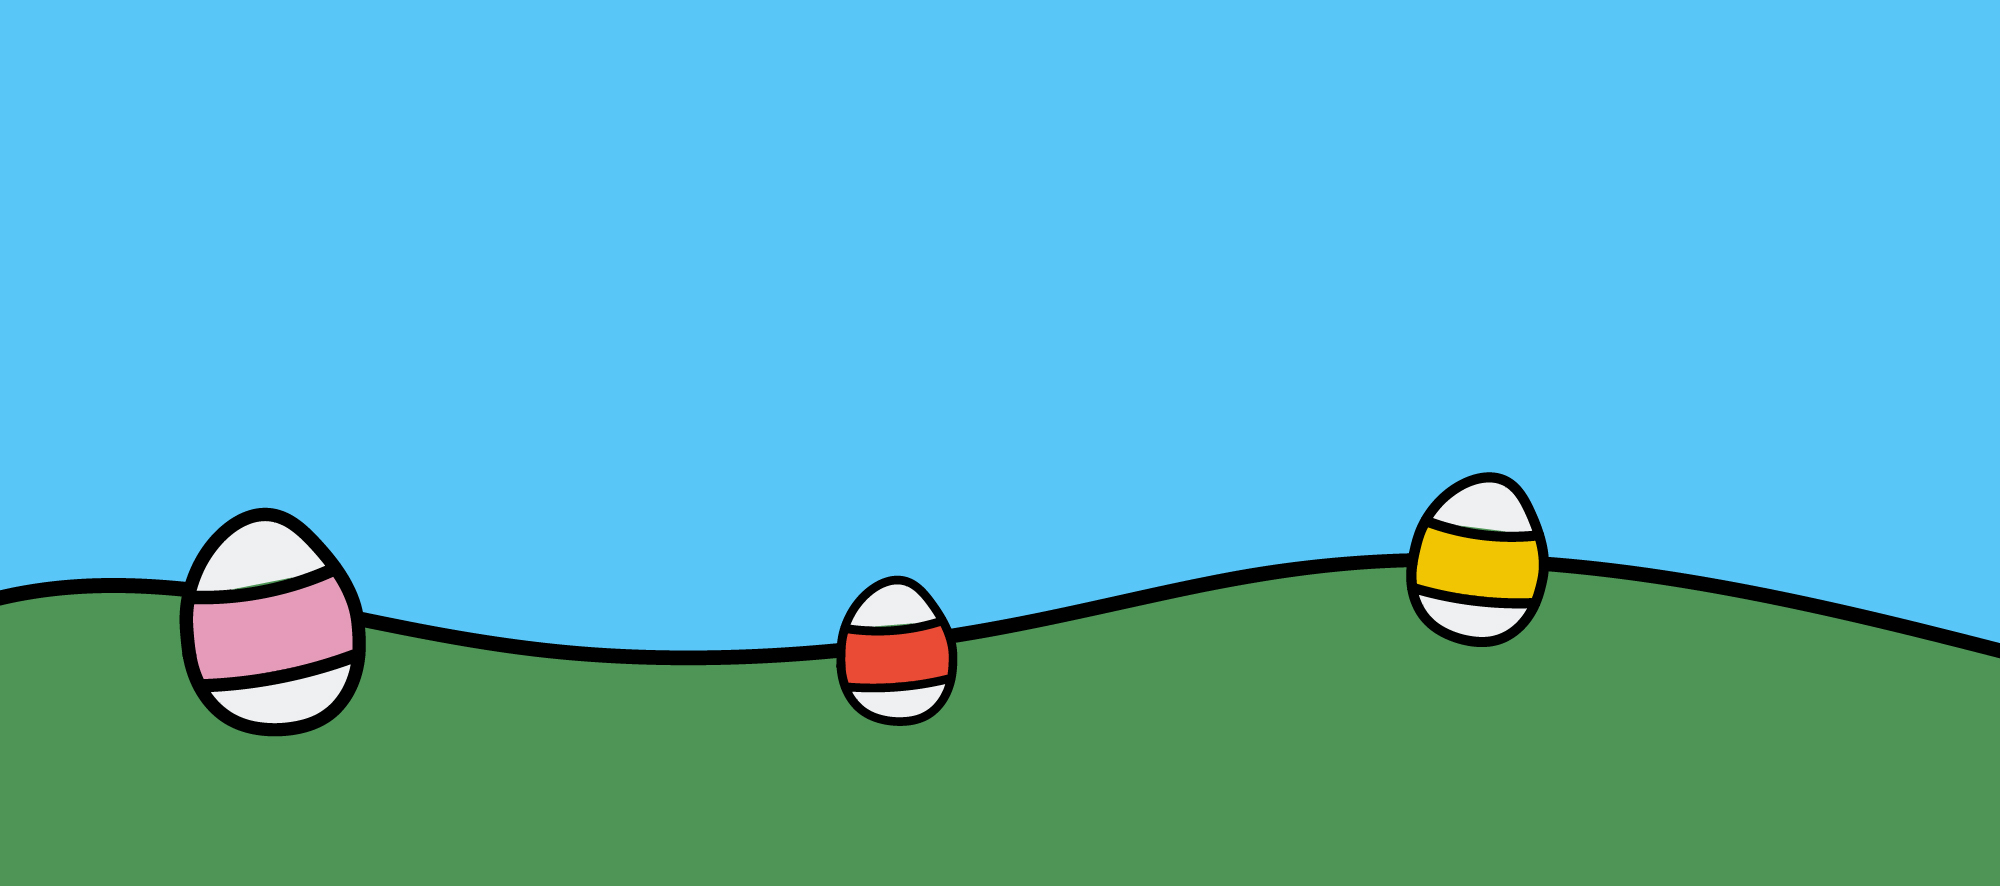
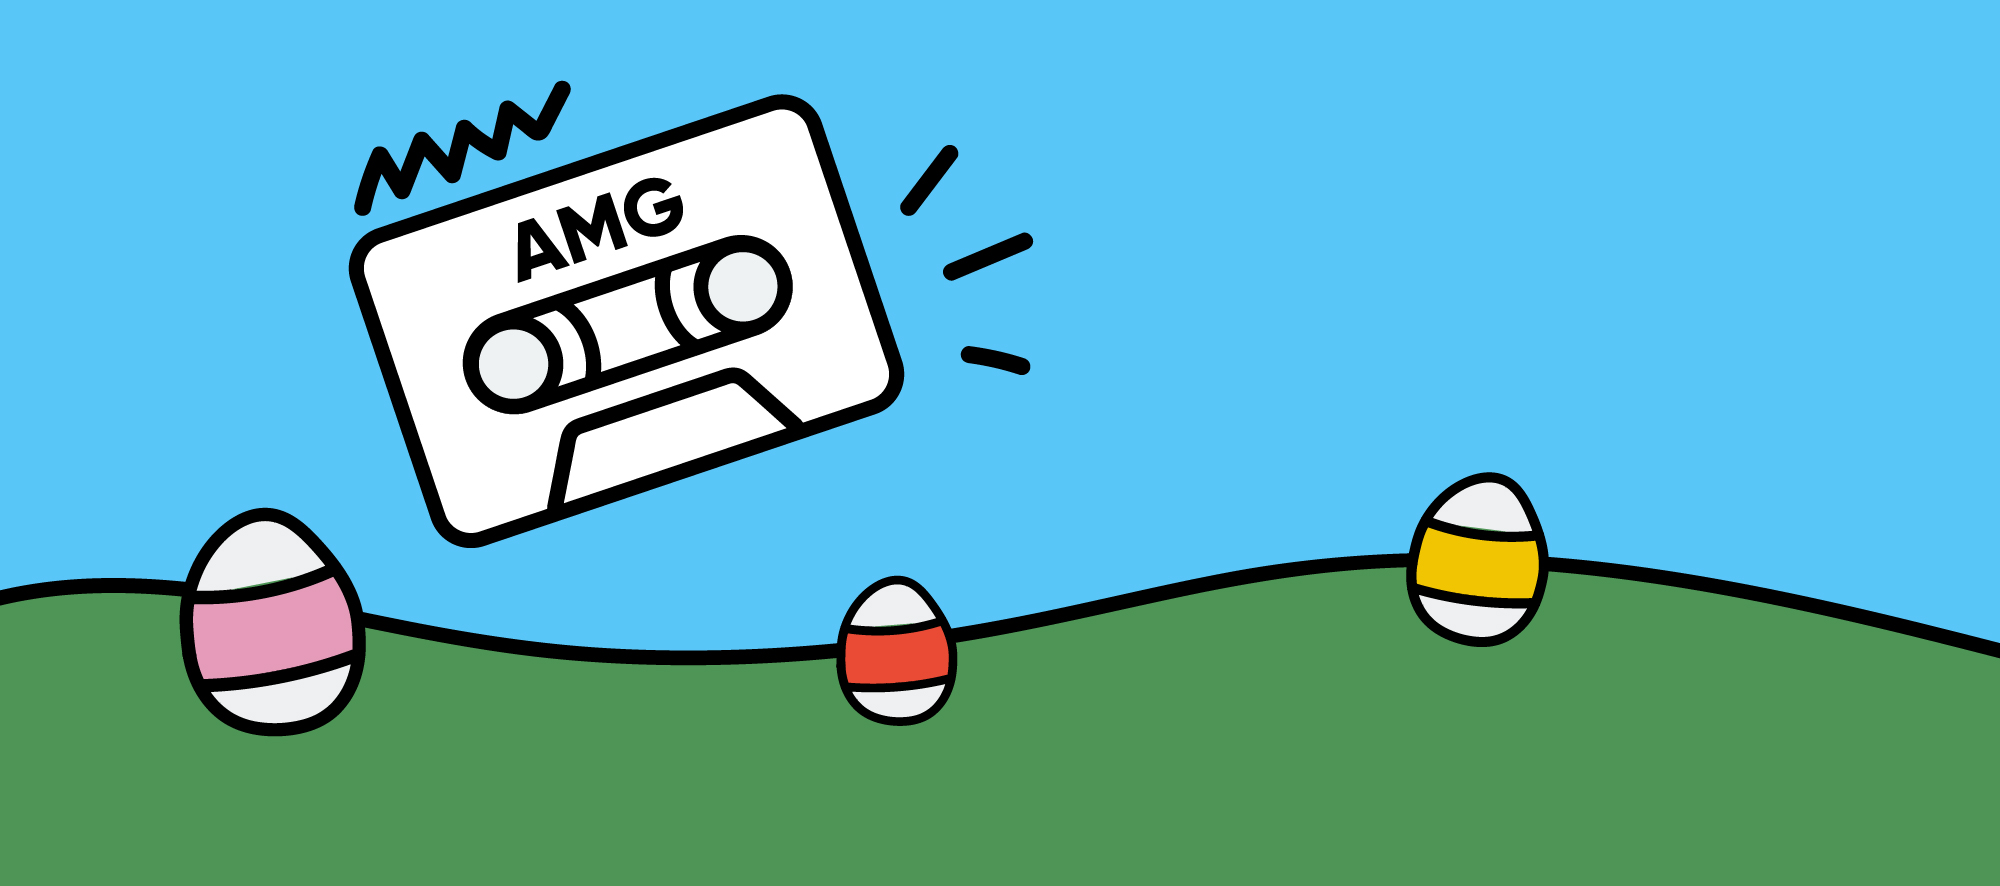
updates

Changed region(s): [[0.155, 0.0914, 0.527, 0.64]]

diff --git a/index.html b/index.html
@@ -20,7 +20,7 @@
 
   <meta name="viewport" content="width=device-width, initial-scale=1">
 
-  <link rel="stylesheet" type="text/css" href="css/prc.css?v=4.4.2022">
+  <link rel="stylesheet" type="text/css" href="css/prc.css?v=4.11.2022">
   <script type="module" src="https://unpkg.com/ionicons@5.5.2/dist/ionicons/ionicons.esm.js"></script>
 
 
@@ -31,26 +31,26 @@
 		<div class="email-banner amg-banner background--red text--uppercase text--white text--bold">
 			Due to COVID-19 concert cancellations, we are using this downtime to bring you something really exciting!
 		</div>
-<!-- 		<div class="amg-section amg-section--black-text amg-section--center full-bleed-banner text--black">
+		<div class="amg-section amg-section--black-text amg-section--center full-bleed-banner text--black">
 			<div class="full-bleed-banner__inner">
 				<div class="full-bleed-banner__image">
-					<img src="images/amg-banner-3-14-2022_new.jpg"/>
+					<img src="images/amgeasterupdate.jpg"/>
 				</div>
-				<div class="full-bleed-banner__overlay full-bleed-banner__overlay--left">
+				<div class="full-bleed-banner__overlay full-bleed-banner__overlay--right full-bleed-banner__overlay--top">
 					<div class="full-bleed-banner__text">			
 						<h2>
-							AMG Update 3/14/2021
+							AMG Update 4/11/2022
 						</h2>
 					</div>				
 					<div class="full-bleed-banner__button">
-						<a href="https://mailchi.mp/5d4cf65b83f0/asheville-music-guide-critics-picks-5185721?e=9cf8691447" class="btn">
+						<a href="https://mailchi.mp/8b7431edcfa9/asheville-music-guide-critics-picks-5339465?e=9cf8691447" class="btn">
 							Check Out This Week's Music News
 						</a>	
 					</div>
 				</div>
 			</div>
-		</div> -->
-		<div class="amg-section amg-section--black-text amg-section--center email-banner email-banner--horizontal text--white">
+		</div>
+<!-- 		<div class="amg-section amg-section--black-text amg-section--center email-banner email-banner--horizontal text--white">
 			<div class="email-banner__inner">
 				<div class="email-banner__text">			
 					<h2 class="">
@@ -58,9 +58,9 @@
 						<br>
 						4/4/2022
 					</h2>
-				</div>
+				</div> -->
 				<!-- email-banner__image--vertical -->
-				<div class="email-banner__image">
+<!-- 				<div class="email-banner__image">
 					<img src="images/amg-banner-2-15.png"/>
 				</div>
 				<div class="email-banner__button">
@@ -69,7 +69,7 @@
 					</a>	
 				</div>
 			</div>
-		</div>				
+		</div>	 -->			
 		<div class="amg-section amg-section--main amg-section--back-text amg-section--image-left background--yellow padding-top--large padding-bottom--large amg-section--center">
 			<div class="inner">
 				<div class="amg-section__image">
@@ -115,7 +115,7 @@
 					</h2>
 					<p>
 						<span>
-							<a href="https://mailchi.mp/f1a212e931eb/asheville-music-guide-critics-picks-5295801">
+							<a href="https://mailchi.mp/8b7431edcfa9/asheville-music-guide-critics-picks-5339465?e=9cf8691447">
 								Check out this week's newsletter!
 							</a>
 						</span>						

diff --git a/css/prc.css b/css/prc.css
@@ -76,6 +76,11 @@ span{
 	right:  auto;
 }
 
+.full-bleed-banner__overlay--top{
+	top:  30%;
+	bottom:  auto;
+}
+
 .email-banner.amg-section--full-img img{
 	width:  100%;
 	margin:  0;
